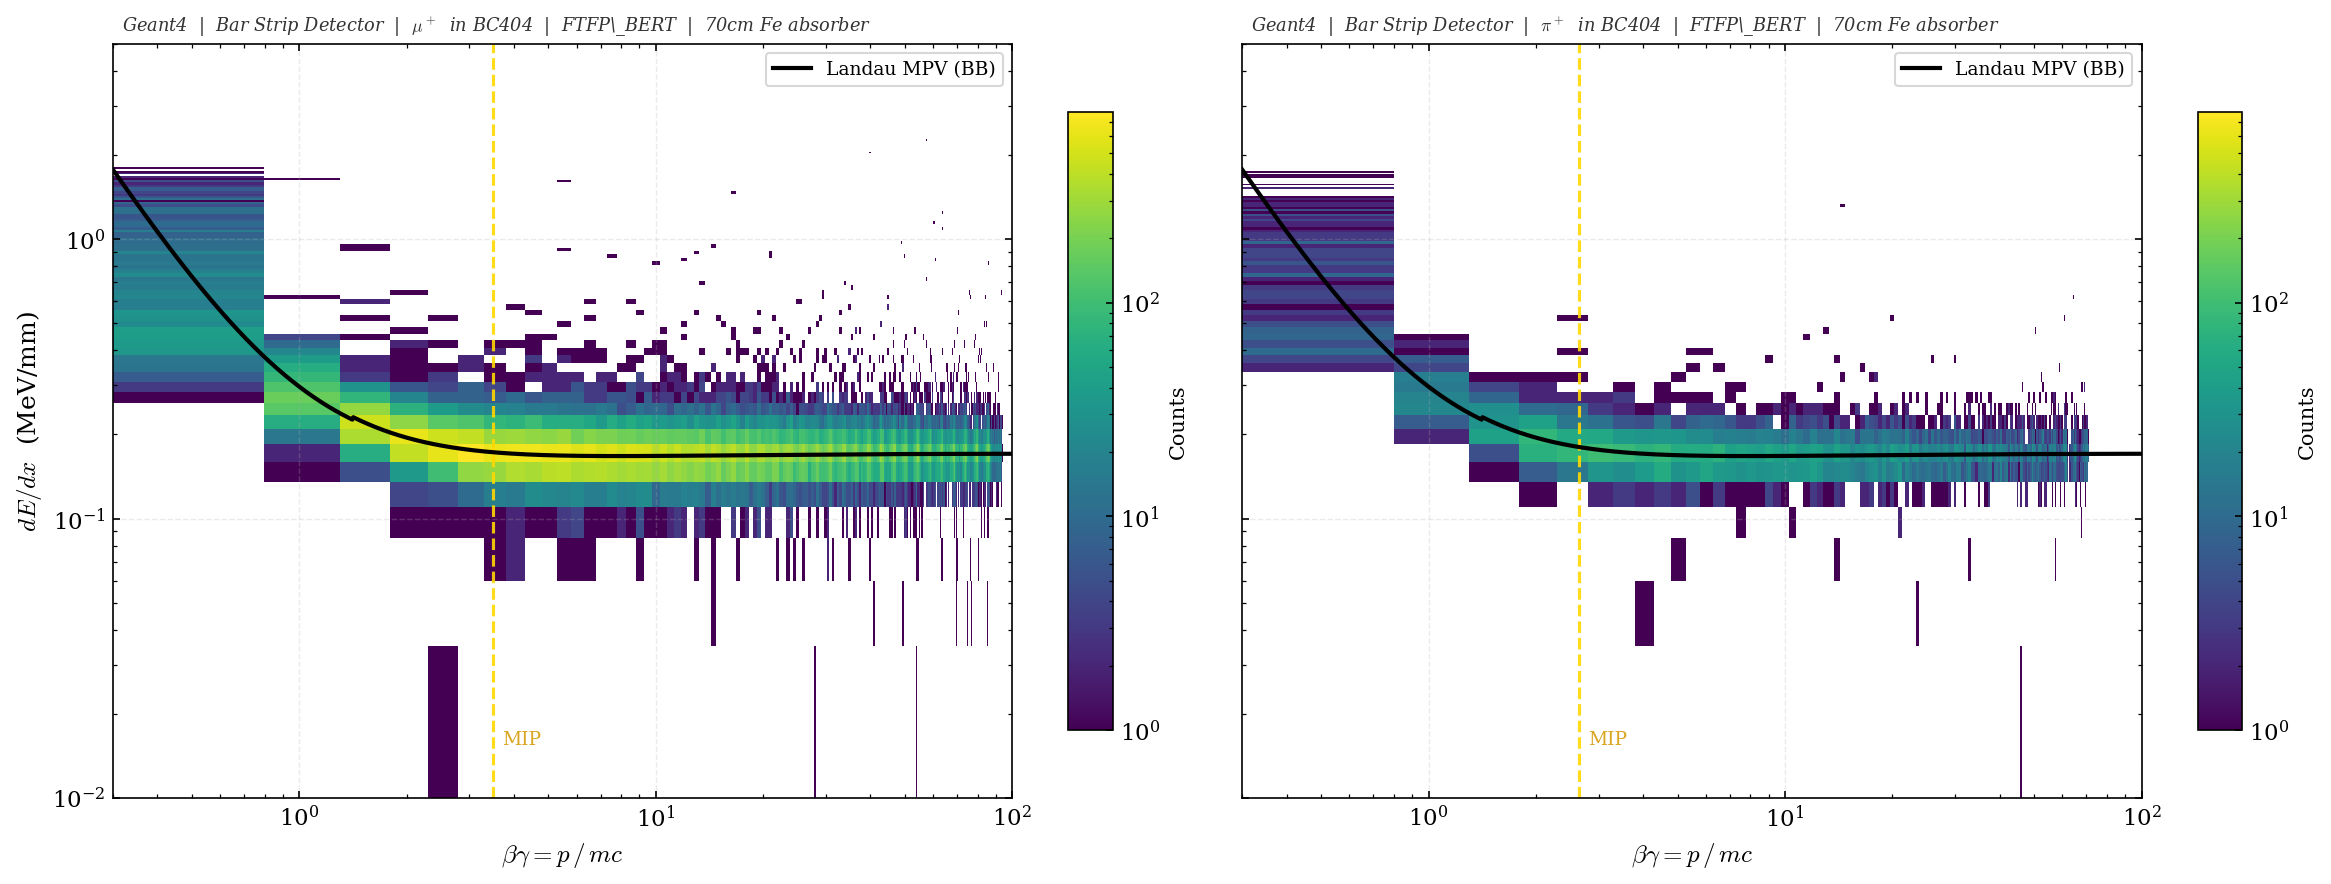
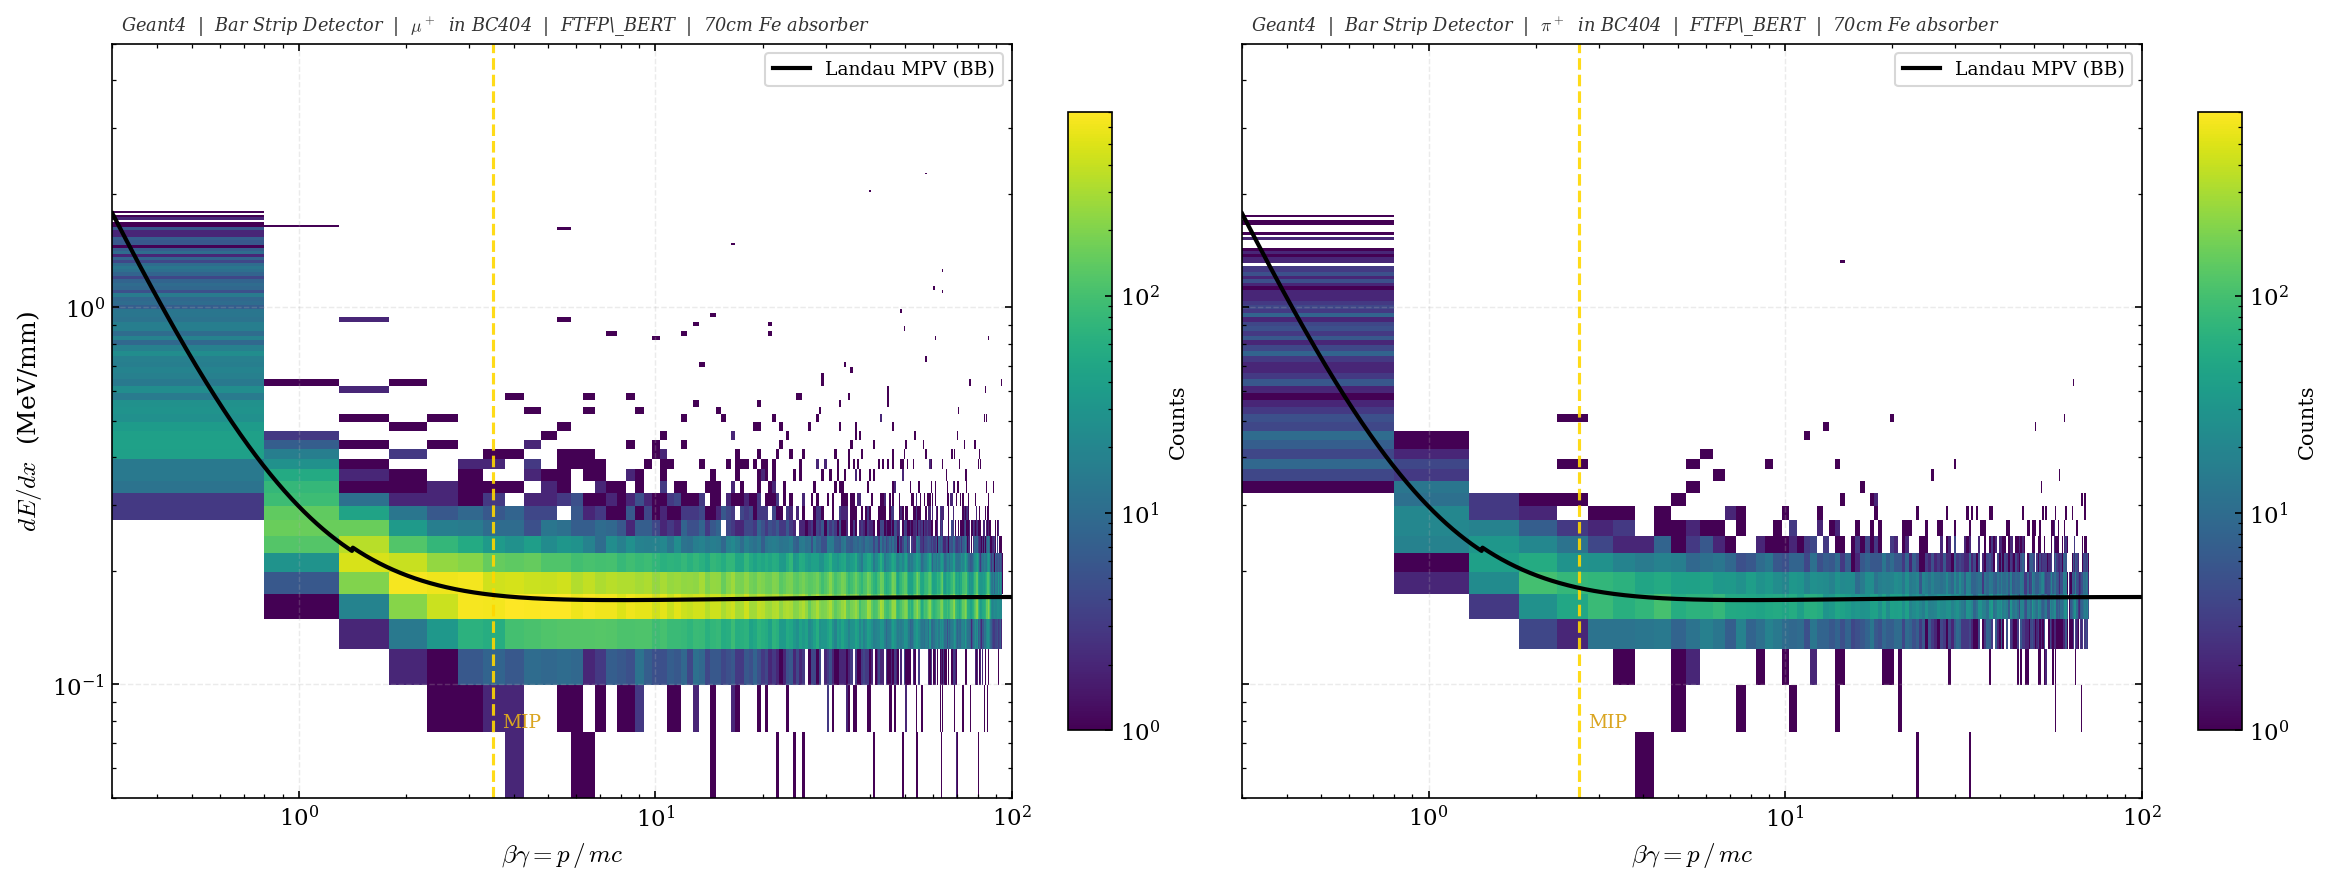
Bar Strip Detector: unified hit threshold, detection definition, and HEP-standard overlay plot
- simulation: add dE/dx >= 0.05 MeV/mm threshold in detector.cc (kDEDXThreshold)
- plot_all.py: DEDX_MIN = 0.05, load_mixed_hits_by_run(), bethe_bloch_standard() with error bars
- plot_all.py: unified detection definition (both layers + fdEdx >= 0.05) in all efficiency plots
- plot_all.py: angular efficiency filtered to runs with p > 0.7 GeV/c to show pure geometric efficiency
- landau_corregida: fdEdx >= 0.05 filter, dynamic threshold line
- README: methodology section for dE/dx vs bg (HEP standard practice), unified hit/detection docs
- images: regenerated all 10+1 plots with updated thresholds and definitions

diff --git a/Bar Strip Detector/plot_all.py b/Bar Strip Detector/plot_all.py
@@ -54,7 +54,7 @@ M_E   = 0.51099895    # MeV/c^2
 AIR = dict(Z_over_A=0.5424, I=64.7e-6, rho=1.032)
 K   = 0.307075        # MeV*cm^2/mol
 
-DEDX_MIN = 0.01       # MeV/mm
+DEDX_MIN = 0.05       # MeV/mm  (umbral real — coincide con kDEDXThreshold en detector.cc)
 DEDX_MAX = 5.0        # MeV/mm
 CMAP = "viridis"
 
@@ -249,6 +249,64 @@ def load_mixed_hits(glob_pattern: str):
     mu = _make_species(0, M_MU, "mu+")
     pi = _make_species(1, M_PI, "pi+")
     return mu, pi
+
+
+def load_mixed_hits_by_run(glob_pattern):
+    files = sorted(glob.glob(glob_pattern))
+    if not files:
+        raise FileNotFoundError(f"[ERROR] No files match: {glob_pattern}")
+
+    n_runs = 80
+    p_sweep_GeV = np.logspace(np.log10(0.05), np.log10(10.0), n_runs)
+    p_sweep_MeV = p_sweep_GeV * 1000.0
+    bg_mu = p_sweep_MeV / M_MU
+    bg_pi = p_sweep_MeV / M_PI
+
+    mu_med = np.full(n_runs, np.nan)
+    mu_n   = np.zeros(n_runs, dtype=int)
+    mu_std_err = np.full(n_runs, np.nan)
+    pi_med = np.full(n_runs, np.nan)
+    pi_n   = np.zeros(n_runs, dtype=int)
+    pi_std_err = np.full(n_runs, np.nan)
+
+    for fpath in files:
+        run_id = run_num(fpath)
+        if run_id >= n_runs:
+            continue
+        with uproot.open(fpath) as f:
+            tree = _best_cycle(f)
+            if tree is None:
+                continue
+            d = tree.arrays(["fdEdx", "particleID", "Momentum"], library="np")
+
+        mask = (d["fdEdx"] >= DEDX_MIN) & (d["fdEdx"] <= DEDX_MAX) & (d["Momentum"] > 0)
+
+        m_mu = mask & (d["particleID"] == 0)
+        if m_mu.sum() > 1:
+            mu_med[run_id] = np.median(d["fdEdx"][m_mu])
+            mu_n[run_id] = m_mu.sum()
+            mu_std_err[run_id] = np.std(d["fdEdx"][m_mu]) / np.sqrt(mu_n[run_id])
+
+        m_pi = mask & (d["particleID"] == 1)
+        if m_pi.sum() > 1:
+            pi_med[run_id] = np.median(d["fdEdx"][m_pi])
+            pi_n[run_id] = m_pi.sum()
+            pi_std_err[run_id] = np.std(d["fdEdx"][m_pi]) / np.sqrt(pi_n[run_id])
+
+        print(f"  Run {run_id:2d}: p={p_sweep_MeV[run_id]:.1f} MeV/c,  "
+              f"mu+ hits={mu_n[run_id]:6d},  pi+ hits={pi_n[run_id]:6d}")
+
+    return dict(
+        momentum=p_sweep_MeV,
+        bg_mu=bg_mu,
+        bg_pi=bg_pi,
+        mu_median=mu_med,
+        mu_nhits=mu_n,
+        mu_std_err=mu_std_err,
+        pi_median=pi_med,
+        pi_nhits=pi_n,
+        pi_std_err=pi_std_err,
+    )
 
 
 # ============================================================================
@@ -785,8 +843,8 @@ def plot_landau_corregida(mixed_path, out_dir):
             return
         d45 = tree.arrays(["fdEdx", "particleID", "fEvent", "layerID", "Momentum"], library="np")
 
-    mu_mask = d45["particleID"] == 0
-    pi_mask = d45["particleID"] == 1
+    mu_mask = (d45["particleID"] == 0) & (d45["fdEdx"] >= DEDX_MIN) & (d45["fdEdx"] <= DEDX_MAX) & (d45["Momentum"] > 0)
+    pi_mask = (d45["particleID"] == 1) & (d45["fdEdx"] >= DEDX_MIN) & (d45["fdEdx"] <= DEDX_MAX) & (d45["Momentum"] > 0)
 
     mu_dedx = d45["fdEdx"][mu_mask]
     pi_dedx = d45["fdEdx"][pi_mask]
@@ -800,7 +858,7 @@ def plot_landau_corregida(mixed_path, out_dir):
     pi_mean, pi_med = np.mean(pi_dedx), np.median(pi_dedx)
 
     fig, ax = plt.subplots(figsize=(11, 7))
-    bins = np.linspace(0.01, 5.0, 100)
+    bins = np.linspace(DEDX_MIN, 5.0, 100)
 
     ax.hist(mu_dedx, bins=bins, histtype="stepfilled",
             color=COLOR_MU, alpha=0.5, density=True,
@@ -813,12 +871,12 @@ def plot_landau_corregida(mixed_path, out_dir):
     ax.hist(pi_dedx, bins=bins, histtype="step",
             color=COLOR_PI, lw=2, density=True)
 
-    ax.axvline(0.5, color="green", lw=2.5, ls="--",
-               label=r"Umbral dE/dx = 0.5 MeV/mm")
+    ax.axvline(DEDX_MIN, color="green", lw=2.5, ls="--",
+               label=f"Umbral dE/dx = {DEDX_MIN} MeV/mm")
     ax.set_xlabel(r"$dE/dx$ por paso  (MeV/mm)")
     ax.set_ylabel("Densidad (normalizada)")
     ax.set_yscale("log")
-    ax.set_xlim(0.01, 5.0)
+    ax.set_xlim(DEDX_MIN, 5.0)
     ax.set_ylim(1e-3, 5)
     ax.legend(fontsize=10, loc="upper right", **_legend_kwargs())
     fig.suptitle(r"Distribución de Landau — haz mixto $\mu^+$/$\pi^+$  ($p_0 \approx 1$ GeV/c)",
@@ -863,17 +921,27 @@ def plot_eff_momento_corregida(mixed_path, out_dir):
             tree = _best_cycle(f)
             if tree is None:
                 continue
-            d = tree.arrays(["particleID", "fEvent"], library="np")
+            d = tree.arrays(["particleID", "fEvent", "layerID", "fdEdx"], library="np")
 
         for pid, rec_list in [(0, records_mu), (1, records_pi)]:
             mask = d["particleID"] == pid
-            n = mask.sum()
-            if n == 0:
+            if mask.sum() == 0:
                 rec_list.append({"p0": p0, "eff": 0, "n_det": 0, "run": rn})
-            else:
-                n_det = len(np.unique(d["fEvent"][mask]))
-                eff = n_det / 1000.0
-                rec_list.append({"p0": p0, "eff": eff, "n_det": n_det, "run": rn})
+                continue
+
+            ev_ids = np.unique(d["fEvent"][mask])
+            n_det = 0
+            for ev in ev_ids:
+                ev_mask = (d["fEvent"] == ev) & mask
+                lay = d["layerID"][ev_mask]
+                dedx = d["fdEdx"][ev_mask]
+                has_L0 = np.any((lay == 0) & (dedx >= DEDX_MIN))
+                has_L1 = np.any((lay == 1) & (dedx >= DEDX_MIN))
+                if has_L0 and has_L1:
+                    n_det += 1
+
+            eff = n_det / 1000.0
+            rec_list.append({"p0": p0, "eff": eff, "n_det": n_det, "run": rn})
 
     mu_recs = sorted(records_mu, key=lambda r: r["p0"])
     pi_recs = sorted(records_pi, key=lambda r: r["p0"])
@@ -924,22 +992,33 @@ def plot_eff_momento_corregida(mixed_path, out_dir):
 # ============================================================================
 def plot_eff_angulo_corregida(mixed_path, out_dir):
     files = sorted(glob.glob(mixed_path), key=run_num)
-    n_runs = len([f for f in files if run_num(f) < 80])
+    p0_vals_GeV = np.logspace(np.log10(0.05), np.log10(10.0), 80)
+    P_THRESHOLD = 0.7    # GeV/c — solo runs donde μ⁺ ya atraviesan el Fe
 
     L_src = 2000.0
-    mu_angles, pi_angles = [], []
+    theta_max = np.degrees(np.arctan2(np.sqrt(350**2 + 350**2), L_src))
+    n_bins = 18
+    bin_edges = np.linspace(0, theta_max, n_bins + 1)
+    bc = 0.5 * (bin_edges[:-1] + bin_edges[1:])
+
+    h_det_mu = np.zeros(n_bins, dtype=float)
+    h_det_pi = np.zeros(n_bins, dtype=float)
+    n_runs_used = 0
 
     for fpath in files:
         rn = run_num(fpath)
-        if rn >= 80:
+        if rn >= 80 or p0_vals_GeV[rn] < P_THRESHOLD:
             continue
+        n_runs_used += 1
         with uproot.open(fpath) as f:
             tree = _best_cycle(f)
             if tree is None:
                 continue
-            d = tree.arrays(["fEvent", "particleID", "ConeAngle", "layerID"], library="np")
+            d = tree.arrays(
+                ["fEvent", "particleID", "ConeAngle", "layerID", "fdEdx"],
+                library="np")
 
-        for pid_val, ang_list in [(0, mu_angles), (1, pi_angles)]:
+        for pid_val, h_det in [(0, h_det_mu), (1, h_det_pi)]:
             mask_pid = d["particleID"] == pid_val
             if mask_pid.sum() == 0:
                 continue
@@ -947,24 +1026,24 @@ def plot_eff_angulo_corregida(mixed_path, out_dir):
             ev_p = d["fEvent"][mask_pid]
             cone_p = d["ConeAngle"][mask_pid]
             lay_p = d["layerID"][mask_pid]
+            dedx_p = d["fdEdx"][mask_pid]
 
             for ev in np.unique(ev_p):
                 m_ev = ev_p == ev
                 lay_ev = lay_p[m_ev]
+                dedx_ev = dedx_p[m_ev]
                 cone_ev = cone_p[m_ev]
 
-                m0 = lay_ev == 0
-                m1 = lay_ev == 1
-                if m0.sum() == 0 or m1.sum() == 0:
+                has_L0 = np.any((lay_ev == 0) & (dedx_ev >= DEDX_MIN))
+                has_L1 = np.any((lay_ev == 1) & (dedx_ev >= DEDX_MIN))
+                if not (has_L0 and has_L1):
                     continue
 
                 cone_med = np.median(cone_ev)
-                ang_list.append(np.degrees(cone_med))
-
-    theta_max = np.degrees(np.arctan2(np.sqrt(350**2 + 350**2), L_src))
-    n_bins = 18
-    bin_edges = np.linspace(0, theta_max, n_bins + 1)
-    bc = 0.5 * (bin_edges[:-1] + bin_edges[1:])
+                cone_deg = np.degrees(cone_med)
+                idx = np.digitize(cone_deg, bin_edges) - 1
+                if 0 <= idx < n_bins:
+                    h_det[idx] += 1
 
     rng = np.random.default_rng(42)
     N_mc = 2_000_000
@@ -973,18 +1052,15 @@ def plot_eff_angulo_corregida(mixed_path, out_dir):
     theta_mc = np.degrees(np.arctan2(np.sqrt(tx_mc**2 + ty_mc**2), L_src))
     h_mc, _ = np.histogram(theta_mc, bins=bin_edges)
     p_theory = h_mc / h_mc.sum()
-    n_total_per_species = n_runs * 1000.0
+    n_total_per_species = n_runs_used * 1000.0
     n_gen = p_theory * n_total_per_species
 
     fig, ax = plt.subplots(figsize=(11, 7))
 
-    for angles, color, label, marker in [
-        (mu_angles, COLOR_MU, r"$\mu^+$", "o"),
-        (pi_angles, COLOR_PI, r"$\pi^+$", "s"),
+    for h_det, color, label, marker in [
+        (h_det_mu, COLOR_MU, r"$\mu^+$", "o"),
+        (h_det_pi, COLOR_PI, r"$\pi^+$", "s"),
     ]:
-        if not angles:
-            continue
-        h_det, _ = np.histogram(angles, bins=bin_edges)
         eff = np.where(n_gen > 10, h_det / n_gen, np.nan)
         err = np.where(n_gen > 10, np.sqrt(eff * (1 - eff) / n_gen), np.nan)
         eff = np.clip(eff, 0, 1.05)
@@ -1038,13 +1114,69 @@ def plot_eff_angulo_corregida(mixed_path, out_dir):
 
 
 # ============================================================================
+# PLOT 8b: dE/dx vs βγ — práctica estándar HEP (80 runs = 80 puntos)
+# ============================================================================
+def plot_bethe_bloch_standard(mixed_path, out_dir):
+    r"""dE/dx vs βγ — HEP standard: median per run + std/sqrt(N) error bars + Landau MPV.
+
+    Barras de error = standard error of the median (std / sqrt(N_hits)).
+    """
+    data = load_mixed_hits_by_run(mixed_path)
+
+    fig, ax = plt.subplots(figsize=(10, 7))
+    bg_range = (0.3, 100)
+
+    v_mu = ~np.isnan(data["mu_median"])
+    v_pi = ~np.isnan(data["pi_median"])
+
+    ax.errorbar(data["bg_mu"][v_mu], data["mu_median"][v_mu],
+                yerr=data["mu_std_err"][v_mu],
+                fmt="o", color=COLOR_MU, capsize=3, capthick=1.2,
+                markersize=5, elinewidth=1.2,
+                label=r"$\mu^+$  mediana / run")
+    ax.plot(data["bg_mu"][v_mu], data["mu_median"][v_mu],
+            color=COLOR_MU, lw=0.7, alpha=0.40)
+
+    ax.errorbar(data["bg_pi"][v_pi], data["pi_median"][v_pi],
+                yerr=data["pi_std_err"][v_pi],
+                fmt="o", color=COLOR_PI, capsize=3, capthick=1.2,
+                markersize=5, elinewidth=1.2,
+                label=r"$\pi^+$  mediana / run")
+    ax.plot(data["bg_pi"][v_pi], data["pi_median"][v_pi],
+            color=COLOR_PI, lw=0.7, alpha=0.40)
+
+    bg_th = np.logspace(np.log10(bg_range[0]), np.log10(bg_range[1]), 2000)
+    mpv = landau_mpv(bg_th, x_mm=10.0, mat=AIR)
+    v = ~np.isnan(mpv)
+    ax.plot(bg_th[v], mpv[v], color="black", lw=2, ls="--",
+            label=r"Landau MPV (Bethe-Bloch)")
+
+    ax.axvline(3.5, color="gray", ls=":", lw=1.5, alpha=0.6)
+    ax.text(3.5 * 1.05, DEDX_MIN * 1.3, "MIP\n(βγ≈3.5)",
+            color="gray", fontsize=9, va="bottom")
+
+    _setup_ax(ax, log_x=True, log_y=True)
+    ax.set_xlabel(r"$\beta\gamma = p\,/\,mc$", fontsize=13)
+    ax.set_ylabel(r"$dE/dx$  (MeV/mm)", fontsize=13)
+    ax.set_xlim(bg_range)
+    ax.set_ylim(DEDX_MIN, DEDX_MAX)
+    ax.legend(fontsize=10, **_legend_kwargs())
+    _add_info(ax)
+    fig.suptitle(
+        r"Bethe-Bloch  —  median per run with $\sigma/\sqrt{N}$ error bars  —  $\mu^+$/$\pi^+$ in BC404 (1 cm)",
+        fontsize=14, fontweight="bold", y=0.96)
+    fig.tight_layout(rect=[0, 0, 1, 0.93])
+    _save(fig, out_dir, "bethe_bloch_overlay.png")
+
+
+# ============================================================================
 # Main
 # ============================================================================
 def main(mixed_path, out_dir):
     os.makedirs(out_dir, exist_ok=True)
 
     print("=" * 60)
-    print("Bar Strip Detector — Generating 10 plots")
+    print("Bar Strip Detector — Generating 10 + history plots")
     print("=" * 60)
 
     # Load mixed hits for Bethe-Bloch / PID plots
@@ -1084,8 +1216,14 @@ def main(mixed_path, out_dir):
     print("[10/10] eff_angulo_corregida.png")
     plot_eff_angulo_corregida(mixed_path, out_dir)
 
+    # HEP standard practice overlay (80 runs = 80 discrete points)
+    print("\n[H] bethe_bloch_overlay  (práctica estándar HEP)")
+    history_dir = os.path.join(out_dir, "history_img")
+    os.makedirs(history_dir, exist_ok=True)
+    plot_bethe_bloch_standard(mixed_path, history_dir)
+
     print("\n" + "=" * 60)
-    print(f"All 10 plots saved to: {out_dir}")
+    print(f"All 10 + H plots saved to: {out_dir}")
     print("=" * 60)
 
 

diff --git a/Bar Strip Detector/simulation_mixed/detector.cc b/Bar Strip Detector/simulation_mixed/detector.cc
@@ -16,10 +16,10 @@ G4bool MySensitiveDetector::ProcessHits(G4Step *aStep, G4TouchableHistory *ROhis
 
 	G4double edep = aStep->GetTotalEnergyDeposit();
 	G4double stepLength = aStep->GetStepLength();
+	if(stepLength <= 0.) return false;
 
-	G4double dEdx = 0.;
-	if(stepLength > 0.)
-		dEdx = edep / stepLength;
+	G4double dEdx = edep / stepLength;
+	if(dEdx < kDEDXThreshold) return false;    // umbral 0.5 MeV/mm
 
 	G4double ekin        = aStep->GetPreStepPoint()->GetKineticEnergy();
 	G4double tof         = aStep->GetPreStepPoint()->GetGlobalTime();
